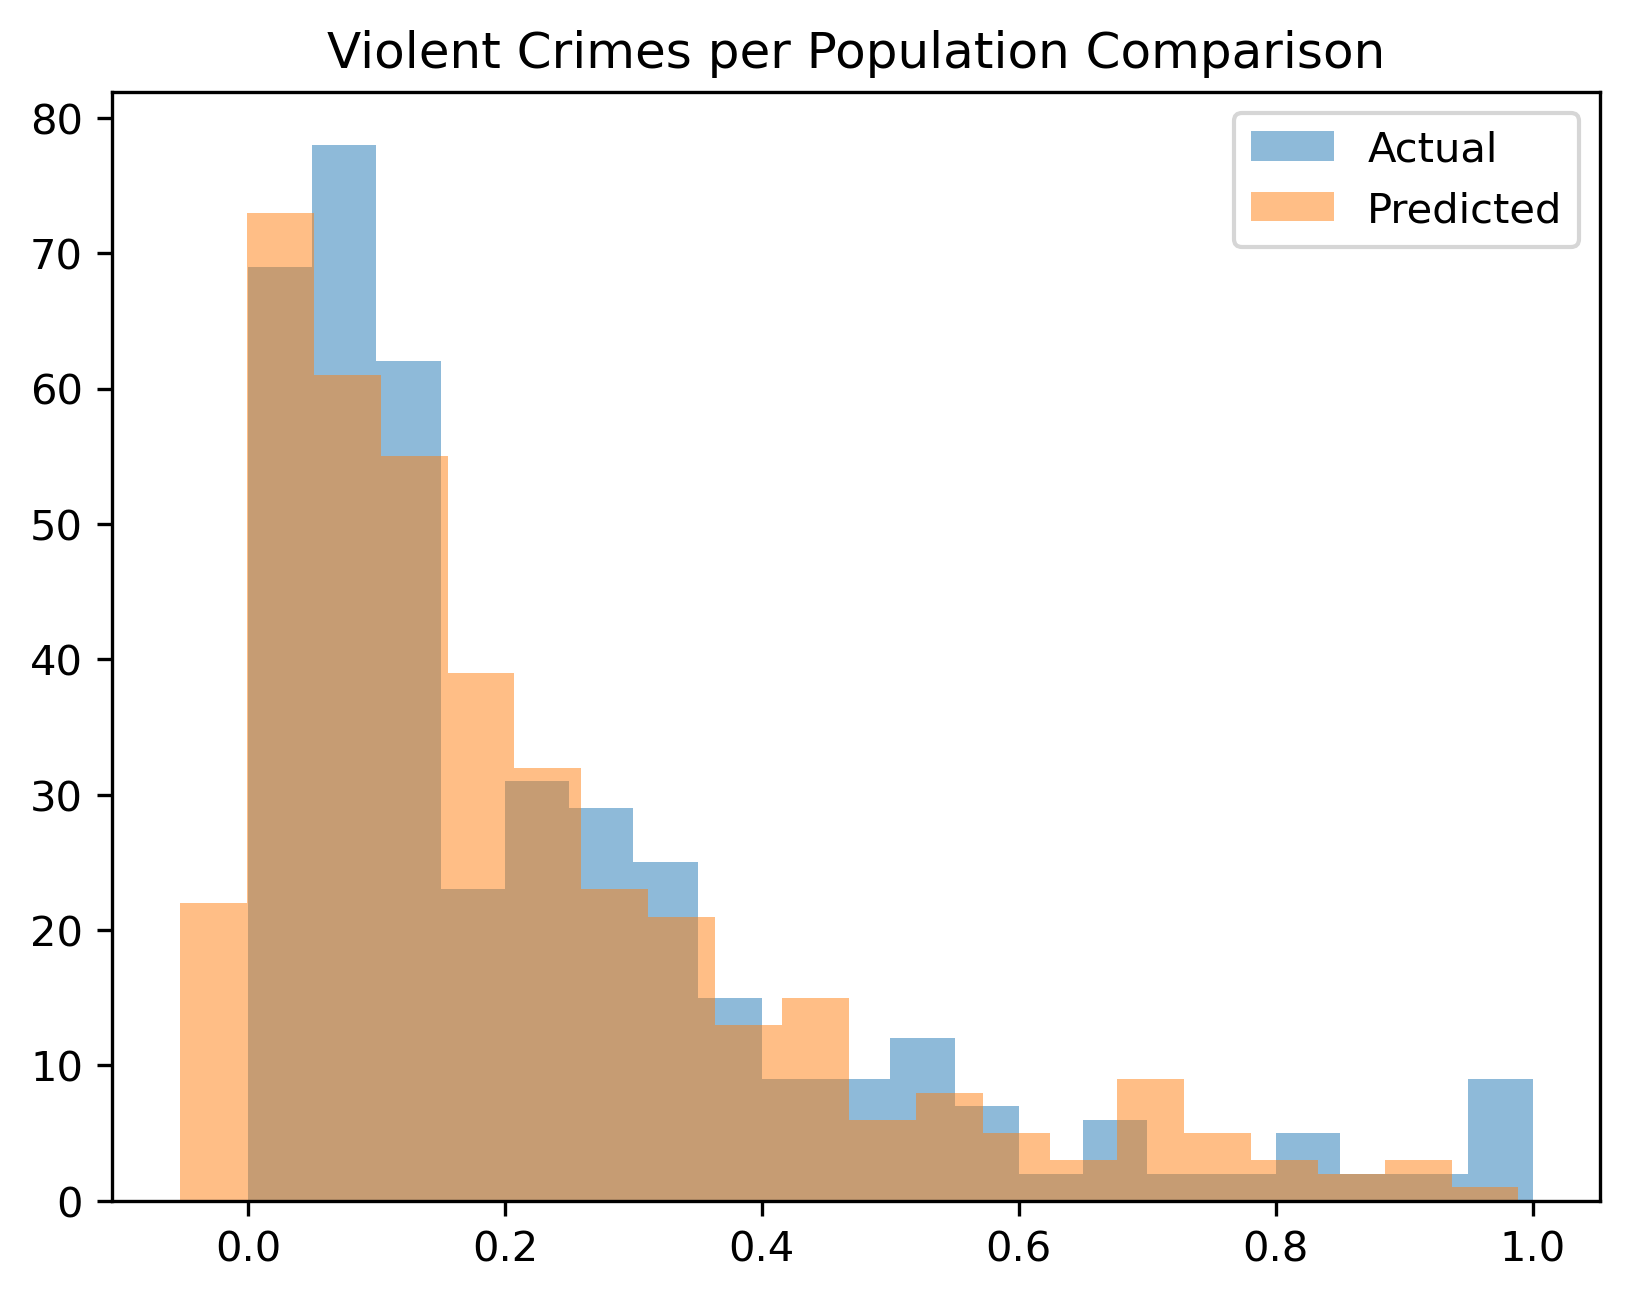
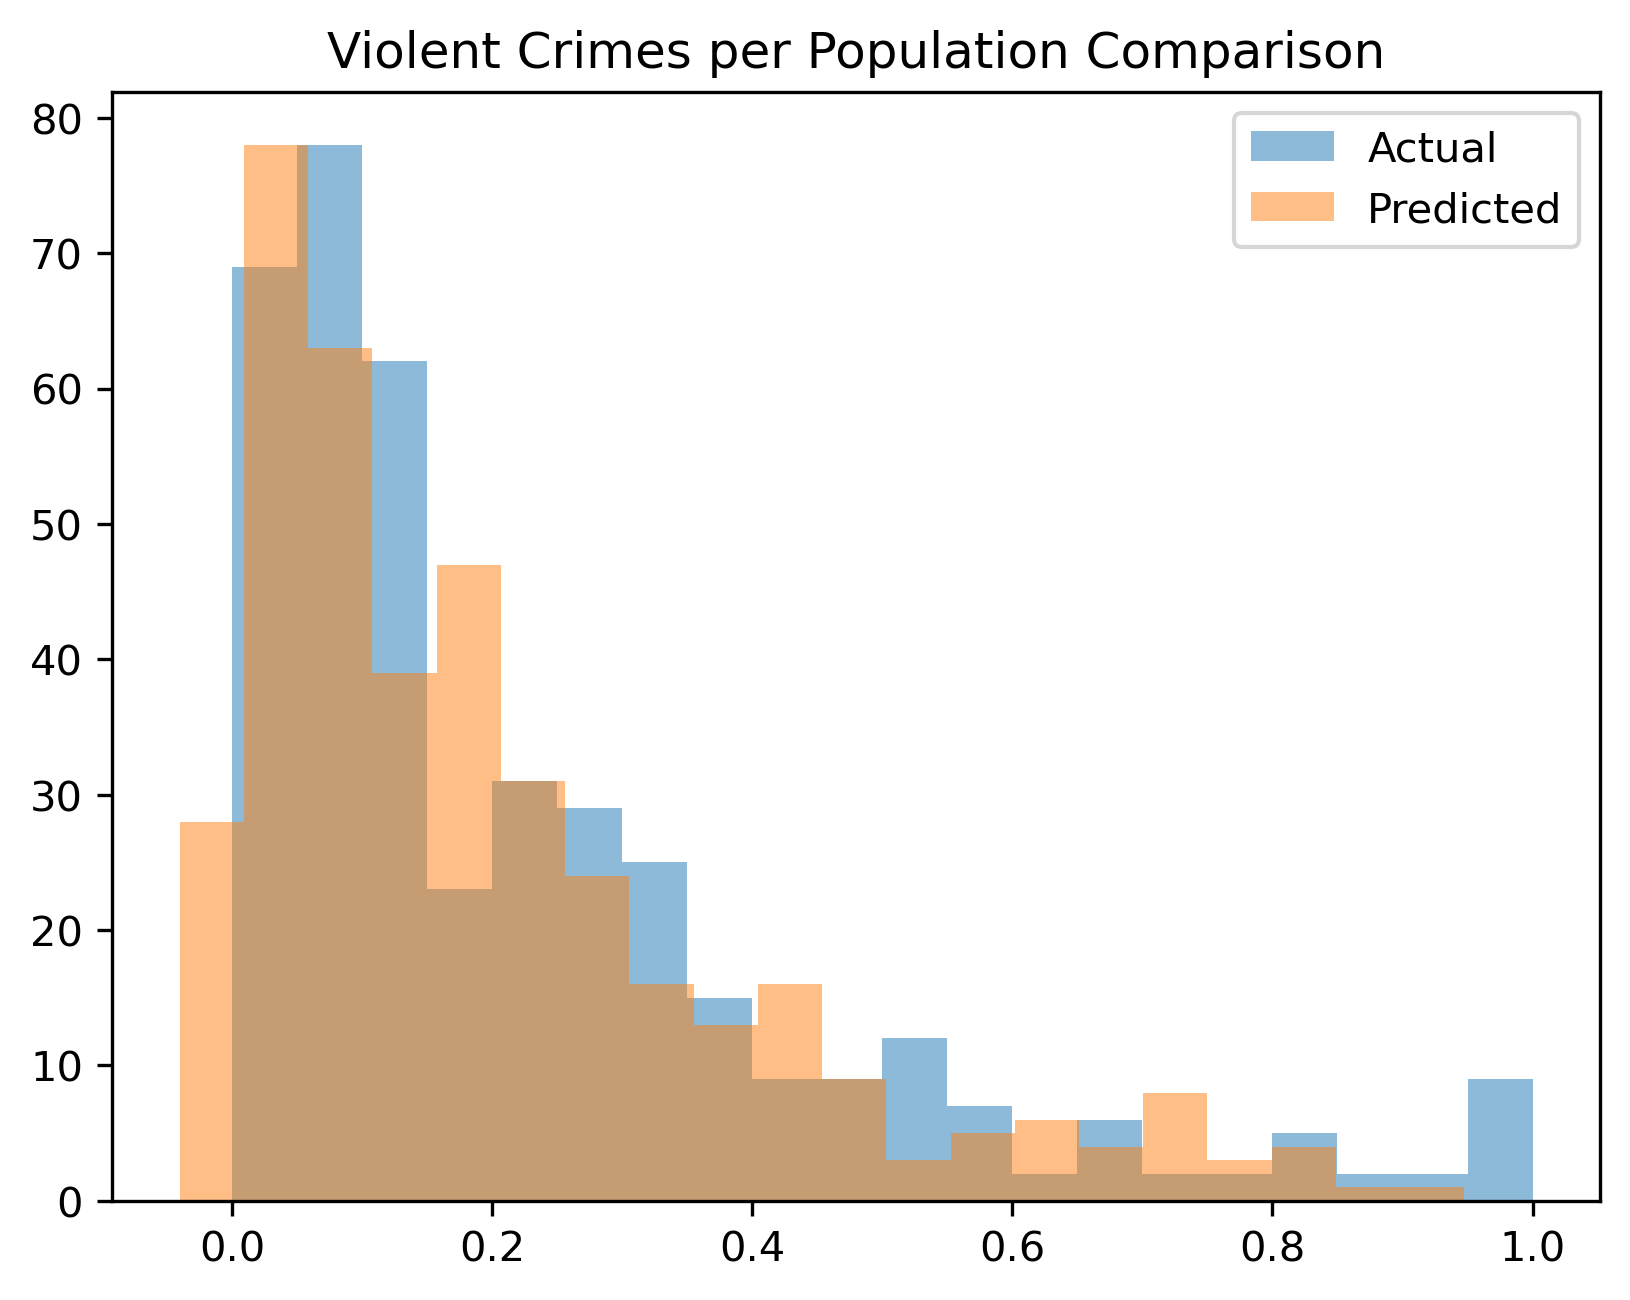
Model outputs and drop null

diff --git a/Code/1.model.py b/Code/1.model.py
@@ -91,18 +91,11 @@ df = df.drop(columns =['state','county','communityname','community','fold',])
 
 X = df.drop('ViolentCrimesPerPop', axis=1)
 y = df['ViolentCrimesPerPop']
+to_remove = findCorrelations(X.corr())
+X = X.drop(X.columns[to_remove], axis=1)
+X = X.dropna(axis=1)
 
 X_train, X_test, y_train, y_test = train_test_split(X, y, test_size=0.2, random_state=1)
-
-# Highly correlated features
-to_remove = findCorrelations(X_train.corr())
-X_train = X_train.drop(X_train.columns[to_remove], axis=1)
-X_test = X_test.drop(X_test.columns[to_remove], axis=1)
-
-# Drop police columns with NA values
-X_train = X_train.dropna(axis=1)
-X_test = X_test.dropna(axis=1)
-X_test = X_test.drop(columns=['OtherPerCap'])
 
 print(X_train.shape, X_test.shape)
 
@@ -134,6 +127,19 @@ plt.legend()
 plt.savefig('Histogram Comparison', dpi=300, bbox_inches='tight')
 
 
+
+def policetest(feature):
+    meantest = X.mean()
+    feature = str(feature)
+    actual = meantest[feature]
+    test = []
+    for i in range(0,1.1,0.1):
+        meantest[feature] = i
+        test.append(y_pred = mlp.predict(meantest))
+    return test
+
+
+policetest('PolicOperBudg')
 
 
 

diff --git a/Code/edaKushal.py b/Code/edaKushal.py
@@ -120,11 +120,13 @@ plt.savefig('violent.png')
 X = df.drop('ViolentCrimesPerPop', axis=1)
 y = df['ViolentCrimesPerPop']
 
-
-
 imp = IterativeImputer(max_iter=10, random_state=0)
 Ximpute = imp.fit_transform(X)
 Ximpute = pd.DataFrame(Ximpute, columns = X.columns)
+
+to_remove = findCorrelations(X.corr())
+X = X.drop(X.columns[to_remove], axis=1)
+X = X.dropna(axis=1)
 
 def modelevalgs(X,y,filename):
     """
@@ -136,20 +138,7 @@ def modelevalgs(X,y,filename):
     :return: table with hyperparamters for each model with lowest error squared
     """
 
-
     X_train, X_test, y_train, y_test = train_test_split(X, y, test_size=0.2, random_state=1)
-
-    # Highly correlated features
-    to_remove = findCorrelations(X_train.corr())
-    X_train = X_train.drop(X_train.columns[to_remove], axis=1)
-    X_test = X_test.drop(X_test.columns[to_remove], axis=1)
-
-    # Drop police columns with NA values
-    X_train = X_train.dropna(axis=1)
-    X_test = X_test.dropna(axis=1)
-    X_test = X_test.drop(columns=['OtherPerCap'])
-    print(X_test.shape, X_train.shape)
-
 
     #--MLP Grid Search--
 
